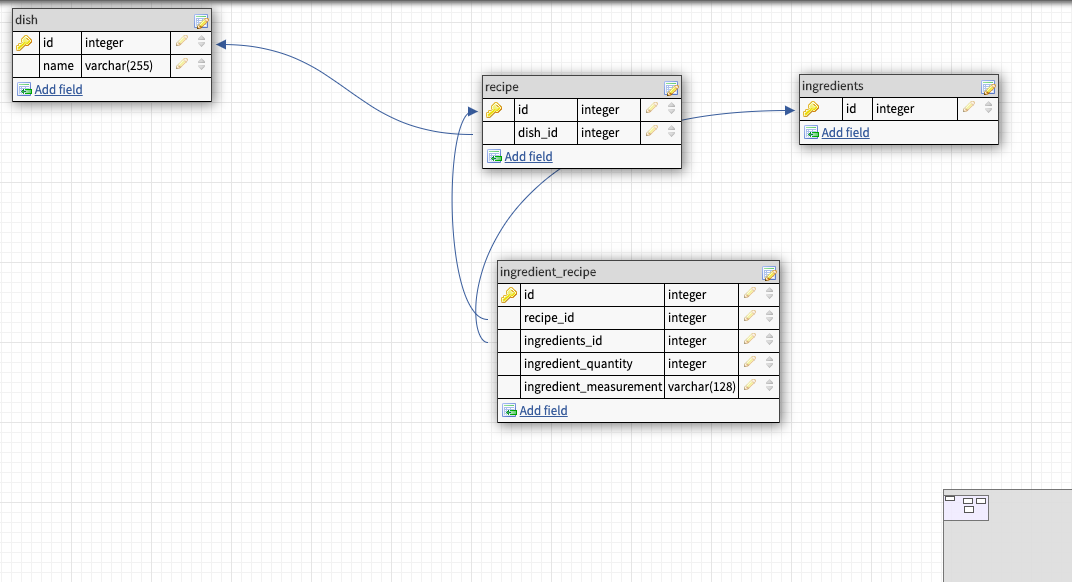
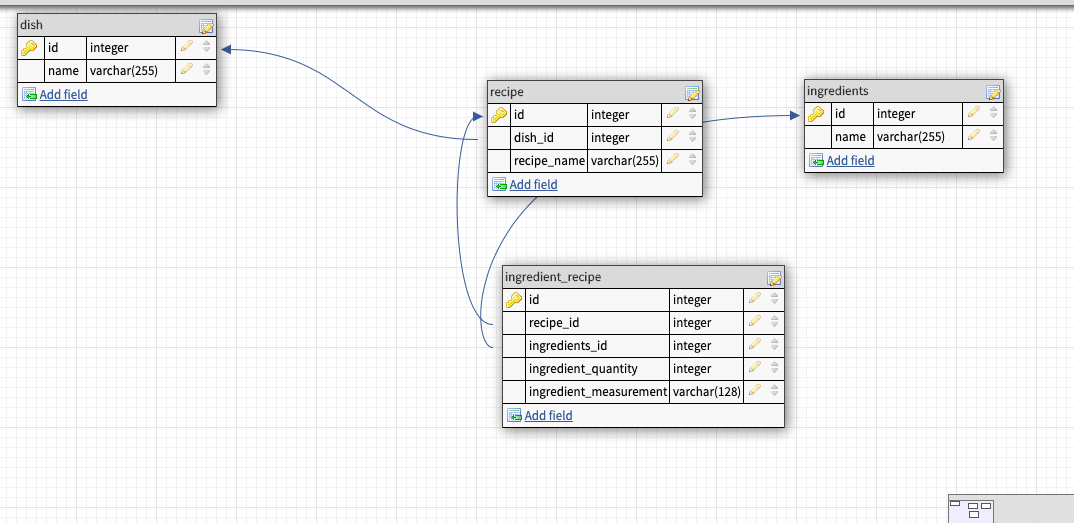
completed mvp

diff --git a/api/router/dish-router.js b/api/router/dish-router.js
@@ -14,4 +14,73 @@ router.get("/", async (req, res) => {
   }
 });
 
+// get dish by id
+router.get("/recipe-:id", async (req, res) => {
+  const { id } = req.params;
+  try {
+    const dish = await db.getDish(id);
+    dish
+      ? res.status(200).json(dish)
+      : res
+          .status(404)
+          .json({ message: "Sorry could not find a dish with that ID" });
+    console.log(id);
+  } catch (error) {
+    res
+      .status(500)
+      .json({ message: "We ran into an error retrieving the dishes" });
+    console.log(error);
+  }
+});
+
+// add a new dish to the database
+router.post("/", async (req, res) => {
+  const { body } = req;
+  try {
+    const dish = await db.addDish(body);
+    dish
+      ? res.status(201).json(dish)
+      : res.status(400).json({
+          message: "Sorry, could not add this dish"
+        });
+  } catch (error) {
+    res
+      .status(500)
+      .json({ message: "We ran into an error retrieving the dishes" });
+  }
+});
+
+// get list of current recipes in the database
+router.get("/recipe", async (req, res) => {
+  try {
+    const recipe = await db.getRecipes();
+    res.status(200).json(recipe);
+    console.log(recipe);
+  } catch (error) {
+    res
+      .status(500)
+      .json({ message: "We ran into an error retrieving the dishes" });
+    console.log(error);
+  }
+});
+
+// add a new recipe in the database
+router.post("/recipe", async (req, res) => {
+  const { body } = req;
+  try {
+    const recipe = await db.addRecipe(body);
+    recipe
+      ? res.status(201).json(recipe)
+      : res.status(400).json({
+          message: "Could not add new recipe"
+        });
+    console.log(recipe);
+  } catch (error) {
+    res
+      .status(500)
+      .json({ message: "We ran into an error retrieving the dishes" });
+    console.log(error);
+  }
+});
+
 module.exports = router;

diff --git a/api/router/dish-model.js b/api/router/dish-model.js
@@ -4,9 +4,9 @@ const db = require("../../data/dbConfig.js");
 module.exports = {
   getDishes,
   getDish,
-  addDish
-  //   getRecipes,
-  //   addRecipe
+  addDish,
+  getRecipes,
+  addRecipe
 };
 
 function getDishes() {
@@ -15,13 +15,17 @@ function getDishes() {
 
 function getDish(id) {
   return db("dish")
-    .where({ id })
+    .select(
+      "dish.id as dish_id",
+      "dish.name as dish_name",
+      "recipe.recipe_name as recipe_name"
+    )
+    .where({ "recipe.dish_id": id })
+    .join("recipe", "dish.id", "recipe.dish_id")
     .first();
 }
 
 function addDish(dish) {
-  // passing 'id' as the second parameter is recommended to ensure the id is returned
-  // when connecting to other database management systems like Postgres
   return db("dish")
     .insert(dish, "id")
     .then(([id]) => {
@@ -29,4 +33,12 @@ function addDish(dish) {
     });
 }
 
-// function getRecipes() {}
+function getRecipes() {
+  return db("recipe")
+    .select("recipe.id as id", "dish.name as dish_name")
+    .join("dish", "dish.id", "recipe.dish_id");
+}
+
+function addRecipe(recipe) {
+  return db("recipe").insert(recipe);
+}

diff --git a/data/seeds/002-recipe.js b/data/seeds/002-recipe.js
@@ -1,7 +1,11 @@
 exports.seed = function(knex, Promise) {
   return knex("recipe").insert([
-    { id: 1, dish_id: 1 },
-    { id: 2, dish_id: 2 },
-    { id: 3, dish_id: 3 }
+    { id: 1, dish_id: 1, recipe_name: "How to make Meat Lovers Pizza" },
+    { id: 2, dish_id: 2, recipe_name: "How to make the best Tacos" },
+    {
+      id: 3,
+      dish_id: 3,
+      recipe_name: "How to make Vegan Chicken Fettuccine Alfredo"
+    }
   ]);
 };

diff --git a/data/migrations/20190502143449_recipe_table.js b/data/migrations/20190502143449_recipe_table.js
@@ -12,6 +12,8 @@ exports.up = function(knex, Promise) {
       .inTable("dish")
       .onDelete("RESTRICT")
       .onUpdate("CASCADE");
+
+    table.string("recipe_name", 128).notNullable();
   });
 };
 
